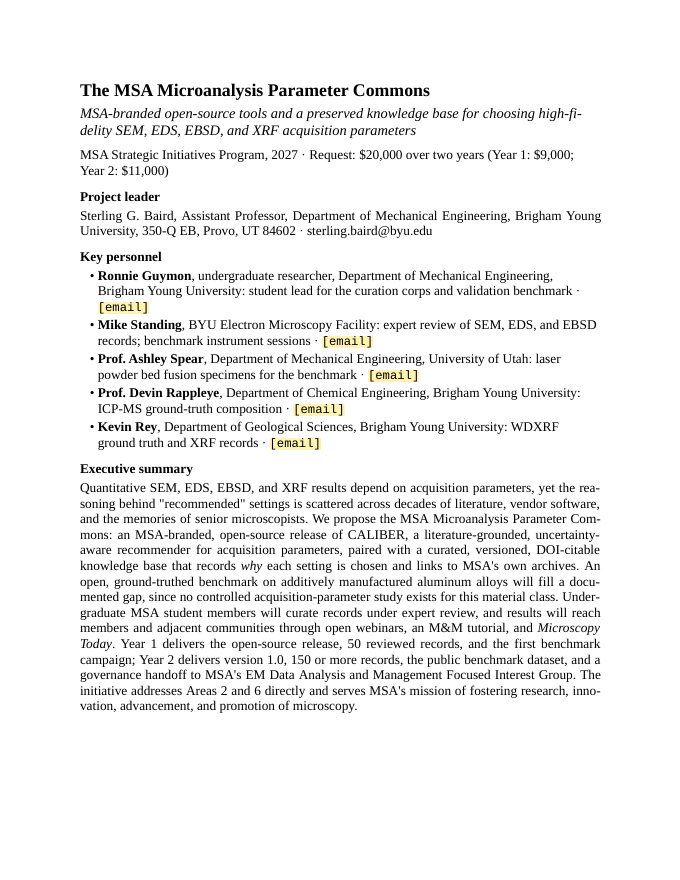
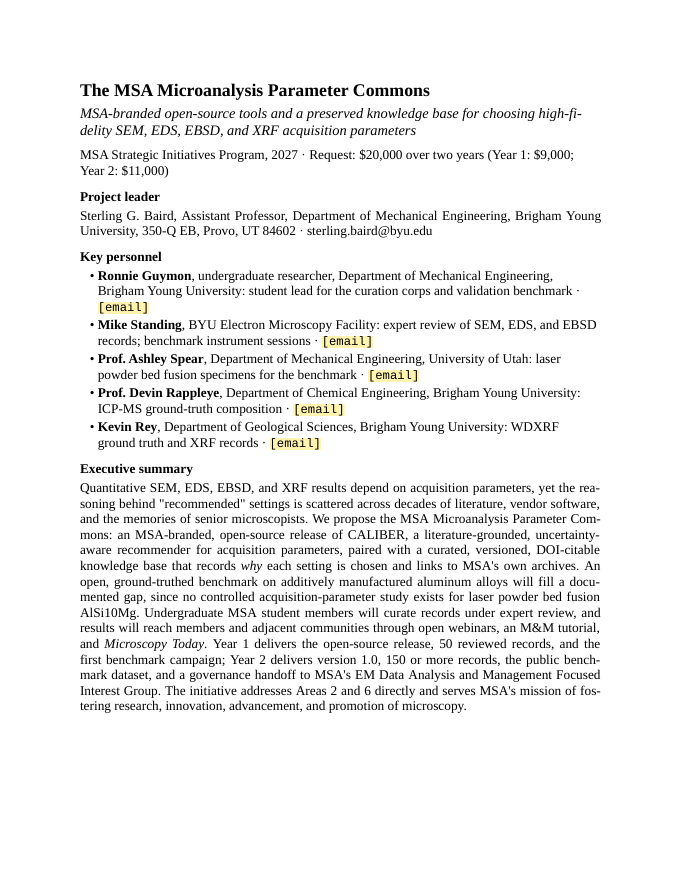
Scope the Strategic Initiatives evidence-gap claim to LPBF AlSi10Mg

Changed region(s): [[0.1235, 0.675, 0.8956, 0.8284]]

diff --git a/2027_msa_strategic_initiatives_proposal.md b/2027_msa_strategic_initiatives_proposal.md
@@ -40,7 +40,7 @@ Sterling G. Baird, Assistant Professor, Department of Mechanical Engineering, Br
 
 ## Executive summary
 
-Quantitative SEM, EDS, EBSD, and XRF results depend on acquisition parameters, yet the reasoning behind "recommended" settings is scattered across decades of literature, vendor software, and the memories of senior microscopists. We propose the MSA Microanalysis Parameter Commons: an MSA-branded, open-source release of CALIBER, a literature-grounded, uncertainty-aware recommender for acquisition parameters, paired with a curated, versioned, DOI-citable knowledge base that records *why* each setting is chosen and links to MSA's own archives. An open, ground-truthed benchmark on additively manufactured aluminum alloys will fill a documented gap, since no controlled acquisition-parameter study exists for this material class. Undergraduate MSA student members will curate records under expert review, and results will reach members and adjacent communities through open webinars, an M&M tutorial, and *Microscopy Today*. Year 1 delivers the open-source release, 50 reviewed records, and the first benchmark campaign; Year 2 delivers version 1.0, 150 or more records, the public benchmark dataset, and a governance handoff to MSA's EM Data Analysis and Management Focused Interest Group. The initiative addresses Areas 2 and 6 directly and serves MSA's mission of fostering research, innovation, advancement, and promotion of microscopy.
+Quantitative SEM, EDS, EBSD, and XRF results depend on acquisition parameters, yet the reasoning behind "recommended" settings is scattered across decades of literature, vendor software, and the memories of senior microscopists. We propose the MSA Microanalysis Parameter Commons: an MSA-branded, open-source release of CALIBER, a literature-grounded, uncertainty-aware recommender for acquisition parameters, paired with a curated, versioned, DOI-citable knowledge base that records *why* each setting is chosen and links to MSA's own archives. An open, ground-truthed benchmark on additively manufactured aluminum alloys will fill a documented gap, since no controlled acquisition-parameter study exists for laser powder bed fusion AlSi10Mg. Undergraduate MSA student members will curate records under expert review, and results will reach members and adjacent communities through open webinars, an M&M tutorial, and *Microscopy Today*. Year 1 delivers the open-source release, 50 reviewed records, and the first benchmark campaign; Year 2 delivers version 1.0, 150 or more records, the public benchmark dataset, and a governance handoff to MSA's EM Data Analysis and Management Focused Interest Group. The initiative addresses Areas 2 and 6 directly and serves MSA's mission of fostering research, innovation, advancement, and promotion of microscopy.
 
 </div>
 
